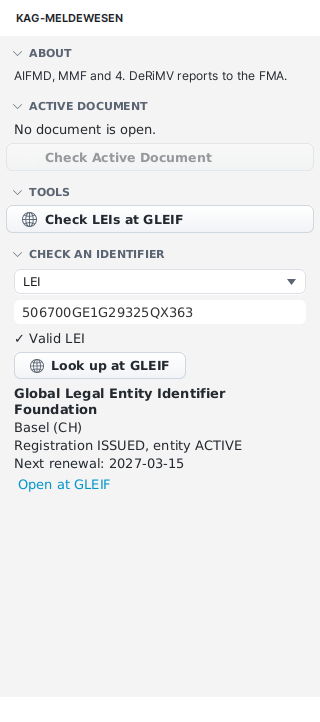
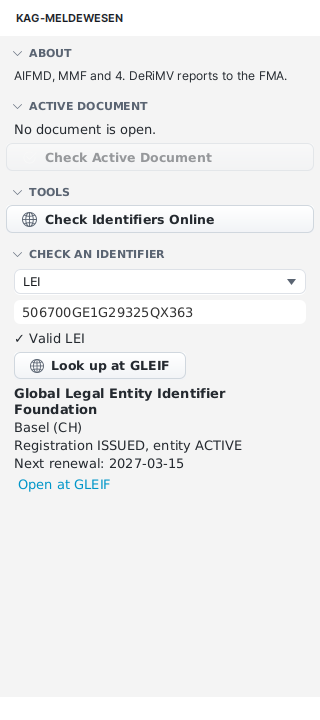
docs(isin): the lookup page, command line, administration, offline use, plugins
The previous commit only renamed docs/gleif.md; this one brings its content and
the references.

diff --git a/docs/identifier-lookup.md b/docs/identifier-lookup.md
@@ -1,81 +1,109 @@
-# LEI Lookup at GLEIF
+# Online Identifier Lookup (GLEIF, ESMA FIRDS, OpenFIGI)
 
-The check digits of an LEI only say that it is well-formed. Whether it is registered, to whom it belongs and
-whether its registration is still valid is known to the [Global Legal Entity Identifier Foundation](https://www.gleif.org)
-(GLEIF). FreeXmlToolkit asks GLEIF's public API (`api.gleif.org`, no account or key needed) in four places:
-the identifier checker of the industry extensions, a check of every LEI of a document, a hover in the editor and the
-command line.
+Check digits only say that an identifier is well-formed. Whether it exists and what it stands for is known online:
 
-!!! note "LEIs leave your computer"
-    A lookup sends the LEIs to GLEIF (and nothing else from the document). It happens when you click, or - only if
-    you turn it on - with every validation and when the mouse rests on an LEI. Administrators can switch all of it off
-    with `gleif.allowed=false` ([Administration](administration.md)).
+- **LEIs** at the [Global Legal Entity Identifier Foundation](https://www.gleif.org) (GLEIF, `api.gleif.org`): legal
+  name, address, registration and entity status;
+- **ISINs** at **ESMA FIRDS** (`registers.esma.europa.eu`, the EU reference data of financial instruments the
+  supervisors check against): name, CFI code, issuer LEI, currency, EU trading venues - and, for ISINs FIRDS does
+  not know (fund units not traded on an EU venue, instruments outside the EU), at **OpenFIGI** (`api.openfigi.com`,
+  Bloomberg): name, security type, ticker, FIGI.
 
-## Look up one LEI
+None of the services needs an account. FreeXmlToolkit asks them from the identifier checker of the extensions, for
+every identifier of a document, in a hover in the editor and on the command line.
+
+!!! note "Identifiers leave your computer"
+    A lookup sends the LEIs or ISINs to these services (and nothing else from the document). It happens when you click,
+    or - only if you turn it on - with every validation and when the mouse rests on an identifier. Administrators can
+    switch it off: `gleif.allowed=false`, `isin.allowed=false`, `isin.openfigi.allowed=false`
+    ([Administration](administration.md)).
+
+## Look up one identifier
 
 ![The identifier checker after a GLEIF lookup](img/gleif-identifier-checker.png)
+![The identifier checker after an ESMA FIRDS lookup](img/isin-identifier-checker.png)
 
-In the side panel of an extension that checks LEIs (KAG-Meldewesen, ESMA Reporting, FinDatEx, ISO 20022, FundsXML,
-PK-Meldewesen), choose
-**LEI** under **CHECK AN IDENTIFIER** and paste the LEI. When its check digits are right, **Look up at GLEIF** shows:
+In the side panel of an extension that checks identifiers (KAG-Meldewesen, ESMA Reporting, FinDatEx, ISO 20022,
+FundsXML, PK-Meldewesen), choose the kind under **CHECK AN IDENTIFIER** and paste the value. When its check digits are
+right:
 
-- the legal name and the city and country of the legal address;
-- the registration status (`ISSUED`, `LAPSED`, `RETIRED`, `ANNULLED`, `PENDING_TRANSFER` …) and the entity status
-  (`ACTIVE` / `INACTIVE`);
-- the next renewal date;
-- **Open at GLEIF** - the LEI's page in GLEIF's search.
+- **LEI → Look up at GLEIF** shows the legal name, the city and country of the legal address, the registration status
+  (`ISSUED`, `LAPSED`, `RETIRED`, `ANNULLED`, `PENDING_TRANSFER` …), the entity status (`ACTIVE` / `INACTIVE`), the next
+  renewal date and **Open at GLEIF**.
+- **ISIN → Look up online** shows the name, CFI code, currency and on how many EU trading venues it is traded now (or
+  that it is no longer traded in the EU), with the issuer's LEI as a link that looks it up at GLEIF. An ISIN FIRDS does
+  not know shows OpenFIGI's name, security type, ticker and FIGI.
 
-## Check every LEI of a document
+## Check every identifier of a document
 
-**Check LEIs at GLEIF** - in the TOOLS section of those panels, in the VALIDATE section of the FundsXML panel and the
-CHECK section of the PK-Meldewesen panel, and in **Tools → Check LEIs at GLEIF** for any document - finds every LEI in the text (XML, CSV, JSON …: 20 characters with valid check digits), asks GLEIF about all
-of them at once (200 per request) and puts a finding for each occurrence into the **Problems** panel, at its line:
+**Check Identifiers Online** - in the TOOLS section of the extension panels, in the VALIDATE section of the FundsXML
+panel, the CHECK section of the PK-Meldewesen panel, and in **Tools → Check Identifiers Online (LEI, ISIN)** for any
+document - finds every LEI (20 characters with valid check digits) and every ISIN (country prefix and valid check
+digit) in the text (XML, CSV, JSON …), asks the services about all of them at once and puts a finding for each
+occurrence into the **Problems** panel, at its line:
 
-| GLEIF says | Finding |
+| Answer | Finding |
 |---|---|
-| Not registered | Error |
-| `RETIRED`, `ANNULLED`, `DUPLICATE`, `MERGED`, `TRANSFERRED` | Error - the LEI must not be used any more |
-| `LAPSED` (registration not renewed) | Warning |
-| Entity `INACTIVE` | Warning |
-| `PENDING_…` | Warning (*info* on the command line) |
+| LEI not registered at GLEIF | Error |
+| LEI `RETIRED`, `ANNULLED`, `DUPLICATE`, `MERGED`, `TRANSFERRED` | Error - must not be used any more |
+| LEI `LAPSED` (registration not renewed), entity `INACTIVE` | Warning |
+| LEI `PENDING_…` | Warning (*info* on the command line) |
+| ISIN known neither to ESMA FIRDS nor to OpenFIGI | Warning |
+| ISIN no longer traded on any EU trading venue | Warning (*info* on the command line) |
+| ISIN not in FIRDS while OpenFIGI is switched off | Warning (*info* on the command line) |
 
-The findings have the source **GLEIF** and replace the GLEIF findings of an earlier check; schema and rule findings
-stay. Answers are kept for 24 hours (see below), so a second check asks GLEIF only about new LEIs.
+An ISIN only OpenFIGI knows is no finding. The findings have the source **GLEIF** or **ISIN** and replace the online
+findings of an earlier check; schema and rule findings stay, also when the document is validated again while its text
+is unchanged. When one service cannot be reached, the panel says so and the other part still counts.
 
 ## With every validation
 
-**Settings → Network & Security → GLEIF (LEI lookup) → Check LEIs at GLEIF on every validation (F8)** adds the same
-check to every validation of an XML document (F8, Validation panel, the extensions' **Check Active Document**). Off by
-default. When GLEIF cannot be reached, the validation shows one warning and goes on.
+**Settings → Network & Security** has a card for each kind: **Check LEIs at GLEIF on every validation (F8)** and
+**Check ISINs online on every validation (F8)** add the same checks to every validation of an XML document (F8,
+Validation panel, the extensions' **Check Active Document**). Both are off by default. When a service cannot be
+reached, the validation shows one warning and goes on.
 
 ## Hover
 
-When the mouse rests on an LEI in the text editor, a tooltip shows what GLEIF said about it - from the answers already
-known. **Look up LEIs at GLEIF when the mouse rests on them** (off by default) also asks GLEIF about LEIs it does not
-know yet.
+When the mouse rests on an LEI or ISIN in the text editor, a tooltip shows what the services said about it - from
+the answers already known. **Look up LEIs at GLEIF when the mouse rests on them** / **Look up ISINs when the mouse
+rests on them** (off by default) also ask about identifiers not known yet.
 
 ## Settings
 
 ![GLEIF settings](img/gleif-settings.png)
+![Instrument lookup settings](img/isin-settings.png)
 
 | Setting | Key | Default |
 |---|---|---|
 | Check LEIs at GLEIF on every validation (F8) | `gleif.onValidation` | off |
 | Look up LEIs at GLEIF when the mouse rests on them | `gleif.hover` | off |
-| Keep answers (hours) | `gleif.cacheHours` | 24 |
+| Keep answers (hours), GLEIF | `gleif.cacheHours` | 24 |
+| Check ISINs online on every validation (F8) | `isin.onValidation` | off |
+| Look up ISINs when the mouse rests on them | `isin.hover` | off |
+| Ask OpenFIGI about ISINs that ESMA FIRDS does not know | `isin.openfigi` | on |
+| OpenFIGI API key (stored encrypted) | `isin.openfigi.apiKey` | - |
+| Keep answers (hours), ISINs | `isin.cacheHours` | 24 |
 
-**Forget answers** empties the cache (`~/.freeXmlToolkit/gleif/cache.json`). Requests go through the proxy of
-*Settings → HTTP Proxy*. GLEIF allows 60 requests a minute; the application sends at most one a second.
+**Forget answers** empties the caches (`~/.freeXmlToolkit/gleif/cache.json`, `~/.freeXmlToolkit/isin/cache.json`).
+Requests go through the proxy of *Settings → HTTP Proxy*. Limits: GLEIF 60 requests a minute (the application sends
+at most one a second, 200 LEIs each); FIRDS one request a second with 100 ISINs; OpenFIGI without an API key 25
+requests a minute with 10 ISINs each, with a key (free at [openfigi.com](https://www.openfigi.com/api)) 100 ISINs per
+request and shorter pauses.
 
 ## Command line
 
 ```bash
-fxt-cli lei 506700GE1G29325QX363              # one or more LEIs
-fxt-cli lei --file report.xml -f json          # every LEI of a file, as JSON
-fxt-cli validate reports/ --gleif              # validation plus the GLEIF check
+fxt-cli lei 506700GE1G29325QX363                  # one or more LEIs
+fxt-cli lei --file report.xml -f json              # every LEI of a file, as JSON
+fxt-cli isin IE00B4L5Y983                          # one or more ISINs
+fxt-cli isin --file holdings.xml --no-openfigi     # every ISIN of a file, FIRDS only
+fxt-cli validate reports/ --gleif --isin           # validation plus the online checks
 ```
 
-`fxt-cli lei` exits with `1` when an LEI is invalid, unknown, lapsed, retired or annulled or its entity inactive, and
-with `3` when GLEIF cannot be reached. `validate --gleif` adds the findings to the report (source `GLEIF`, rule
-`GLEIF-LEI`); an unreachable GLEIF is an *info* there. The command line ignores the GUI setting "on every
-validation" - only `--gleif` turns the check on. See [Command Line](command-line.md#lei).
+`fxt-cli lei` exits with `1` when an LEI is invalid, unknown, lapsed, retired or annulled or its entity inactive;
+`fxt-cli isin` with `1` when an ISIN is invalid or known to neither service; both with `3` when a service cannot be
+reached. `validate --gleif` / `--isin` add the findings to the report (sources `GLEIF` / `ISIN`, rules `GLEIF-LEI` /
+`ISIN-LOOKUP`); an unreachable service is an *info* there. The OpenFIGI API key comes from `FXT_OPENFIGI_APIKEY` or
+the setting. The command line ignores the GUI settings "on every validation" - only `--gleif` / `--isin` turn the
+checks on. See [Command Line](command-line.md#lei).

diff --git a/CLAUDE.md b/CLAUDE.md
@@ -244,22 +244,32 @@ validate, bind), `ProjectSettingsDialog` (+ `ScenarioEditDialog`, `BindSchemaDia
 (`ValidationRunner.batchProject`), Welcome "Projects" cards. CLI: `scenario` (`--input`), `validate --project`
 (also Schematron / JSON Schema). Docs: `docs/projects.md`.
 
-## GLEIF (LEI lookup)
+## Online identifier lookup (GLEIF, ESMA FIRDS, OpenFIGI)
 
-`service/finance/gleif/`: `GleifClient` (`api.gleif.org/api/v1/lei-records?filter[lei]=…`, 200 per request, ≤ 1
-request/s, `Fetcher` = `ConnectionService.fetchBinary`, only LEIs with valid check digits), `LeiRecord` (+ `problem()`:
-unknown/RETIRED/ANNULLED… = error, LAPSED/INACTIVE = warning, PENDING = info), `LeiCache` (memory +
-`~/.freeXmlToolkit/gleif/cache.json`, `gleif.cacheHours`), `LeiScanner` (LEIs in any text, `at(text, offset)`),
-`GleifCheck` (findings per occurrence, never throws), `Gleif` (shared cache + `setCache` test hook, settings
-`gleif.onValidation` / `gleif.hover`, policy `gleif.allowed`, `setValidationOverride` for the CLI). Users:
-`ValidationRunner.gleifProblems` (stage at the end of `runWithReport` when `Gleif.onValidation()`), `plugins/IdentifierChecker`
-(identifier checker control with Look up at GLEIF, in `IndustryPanel`, `FundsXmlPanel`, `PkMeldewesenPanel`; `IndustryPanel` tool "Check LEIs at GLEIF" for panels offering `IdentifierKind.LEI`),
-`GleifDocumentCheck` (`runOnActive(host, done)` → `Outcome`, merge into the Problems panel via
-`EditorHost.publishGleifCheck`; a later validation of the same text keeps the GLEIF findings; used by Tools menu
-`menu-tools-gleif`, `IndustryPanel`, `FundsXmlPanel` `fundsxml-gleif`, `PkMeldewesenPanel` `pk-gleif`), `LeiHover`, Settings card
-`GleifSettings`, CLI `lei` (`LeiCommand`) and `validate --gleif` (the CLI ignores `gleif.onValidation`). LEIs leave the
-computer only on a click or with those settings on. Tests use the saved answer `src/test/resources/gleif/lei-records.json`.
-Docs: `docs/gleif.md`.
+Shared cache `service/finance/lookup/LookupCache<R>` (memory + JSON file, codec, `Fetcher`).
+LEIs, `service/finance/gleif/`: `GleifClient` (`api.gleif.org/api/v1/lei-records?filter[lei]=…`, 200 per request, ≤ 1
+request/s, `ConnectionService.fetchBinary`, only valid check digits), `LeiRecord` (+ `problem()`: unknown/RETIRED/
+ANNULLED… = error, LAPSED/INACTIVE = warning, PENDING = info), `LeiCache` (`~/.freeXmlToolkit/gleif/cache.json`),
+`LeiScanner`, `GleifCheck`, `Gleif` (shared cache + `setCache`, `gleif.onValidation` / `gleif.hover` / `gleif.cacheHours`,
+policy `gleif.allowed`, `setValidationOverride`).
+ISINs, `service/finance/isin/`: `IsinLookup` (ESMA FIRDS Solr `registers.esma.europa.eu/solr/esma_registers_firds/select`,
+100 ISINs per request grouped by isin + `facet.pivot=isin,status` (TERM/CANC = ended venues); the rest at OpenFIGI
+`POST api.openfigi.com/v3/mapping` - 10 jobs/request and 25 requests/min without key, 100 with `X-OPENFIGI-APIKEY` via
+`ConnectionService.postJson(…, headers)` (32 MB answers)), `IsinRecord` (+ `problem()`: unknown to both = warning, no EU
+venue / not in FIRDS without OpenFIGI = info), `IsinScanner` (country prefix + check digit), `Isin` (shared `Isin.Cache`
+keyed per OpenFIGI mode (`#firds`), `~/.freeXmlToolkit/isin/cache.json`, settings `isin.onValidation` / `isin.hover` /
+`isin.openfigi` (default on) / `isin.openfigi.apiKey` (encrypted, env `FXT_OPENFIGI_APIKEY`) / `isin.cacheHours`, policy
+`isin.allowed`, `isin.openfigi.allowed`, CLI overrides).
+Combined: `service/finance/IdentifierCheck` (LEIs + ISINs, findings with source `GLEIF` / `ISIN`, `Failure` per source,
+never throws). Users: `ValidationRunner.identifierProblems` / `toProblems` (stage at the end of `runWithReport`),
+`plugins/IdentifierChecker` (control in `IndustryPanel`, `FundsXmlPanel`, `PkMeldewesenPanel`: Look up at GLEIF / Look up
+online, issuer LEI link), `IdentifierDocumentCheck` (`runOnActive(host, done)` → `Outcome`; merge via
+`EditorHost.publishIdentifierCheck`; a later validation of the same text keeps the online findings per source unless it
+checked that source itself; "Check Identifiers Online": Tools `menu-tools-identifiers-online`, `industry-identifiers-online`,
+`fundsxml-identifiers-online`, `pk-identifiers-online`), `IdentifierHover`, Settings cards `GleifSettings` / `IsinSettings`,
+CLI `lei`, `isin` (`--no-openfigi`), `validate --gleif --isin` (the CLI ignores the "on validation" settings). Values leave
+the computer only on a click or with those settings on. Tests: `OnlineFakes` (saved answers `gleif/lei-records.json`,
+`isin/firds-select.json`, `isin/openfigi-mapping.json`). Docs: `docs/identifier-lookup.md`.
 
 ## Plugins
 

diff --git a/docs/command-line.md b/docs/command-line.md
@@ -62,7 +62,9 @@ fxt-cli validate [options] FILE|FOLDER...
 | `-r`, `--report FILE` | Write the report to a file; the text summary still goes to standard output |
 | `-p`, `--project FXTPROJ` | Use a [project's](projects.md) bindings (schema, Schematron, JSON Schema) and catalogs |
 | `--fail-on-warning` | Warnings make a file invalid too |
-| `--gleif` | Also check every LEI of the files at GLEIF ([LEI Lookup at GLEIF](gleif.md)); sends the LEIs to `api.gleif.org` |
+| `--gleif` | Also check every LEI of the files at GLEIF ([Online Identifier Lookup](identifier-lookup.md)); sends the LEIs to `api.gleif.org` |
+| `--isin` | Also check every ISIN of the files at ESMA FIRDS, OpenFIGI for the ISINs FIRDS does not know; sends the ISINs to these services |
+| `--no-openfigi` | With `--isin`: ask only ESMA FIRDS |
 | `--xsd-version VERSION` | `auto` (default: XSD 1.1 when the schema uses it), `1.0` or `1.1` |
 | `--xml-version VERSION` | `auto` (default: as declared), `1.0` (a document declared as XML 1.1 is an error) or `1.1` |
 | `--schematron-binding BINDING` | Query binding of a Schematron without `@queryBinding`: `xslt`, `xslt2` (default) or `xslt3`; with `xslt` / `xslt2` every context and test must be XPath 1.0 / 2.0 |
@@ -590,7 +592,7 @@ Exit code `0` when everything selected was decrypted, `1` when no key fits or da
 ## lei
 
 Looks LEIs up at GLEIF: legal name, country, registration and entity status, next renewal. See
-[LEI Lookup at GLEIF](gleif.md).
+[Online Identifier Lookup](identifier-lookup.md).
 
 ```bash
 fxt-cli lei [LEI...] [--file FILE]... [-f text|json]
@@ -605,6 +607,26 @@ fxt-cli lei [LEI...] [--file FILE]... [-f text|json]
 Exit code `0` when every LEI is issued and its entity active, `1` when one is invalid, unknown, lapsed, retired or
 annulled or its entity inactive, `3` when GLEIF cannot be reached or the administrator turned lookups off
 (`gleif.allowed=false`).
+
+## isin
+
+Looks ISINs up at ESMA FIRDS (name, CFI code, issuer LEI, currency, EU trading venues), the ISINs FIRDS does not know
+at OpenFIGI (name, security type, ticker, FIGI). See [Online Identifier Lookup](identifier-lookup.md).
+
+```bash
+fxt-cli isin [ISIN...] [--file FILE]... [--no-openfigi] [-f text|json]
+```
+
+| Option | Meaning |
+|---|---|
+| `ISIN...` | ISINs to look up |
+| `--file FILE` | Look up every ISIN found in the file (repeatable) |
+| `--no-openfigi` | Ask only ESMA FIRDS |
+| `-f`, `--format FORMAT` | `text` (default) or `json` |
+
+An OpenFIGI API key in `FXT_OPENFIGI_APIKEY` raises OpenFIGI's limits. Exit code `0` when every ISIN is known, `1`
+when one is invalid or known to neither service, `3` when a service cannot be reached or the administrator turned
+lookups off (`isin.allowed=false`).
 
 ## mcp
 

diff --git a/docs/administration.md b/docs/administration.md
@@ -79,9 +79,13 @@ Any key of the user's settings file works. These are the ones most often managed
 | `xslt.external.allowed` | `false` | **Policy only.** Only the bundled Saxon HE transforms; [external XSLT processors](transform-panel.md#external-xslt-processors) are hidden and refused (panels, scenarios, `fxt-cli transform` / `fop`) |
 | `xslt.processors` | JSON list | The external XSLT processors (as written by *Settings → XSLT Processors*); in `defaults.properties` a starting list, in `policy.properties` a fixed one |
 | `xslt.processor.default` | `builtin` or an id | The default XSLT processor (scenarios, PDF/FOP panel, command line) |
-| `gleif.allowed` | `false` | No [LEI lookups at GLEIF](gleif.md): no panel buttons, menu item, hover or validation stage; `fxt-cli lei` and `validate --gleif` refuse |
+| `gleif.allowed` | `false` | No [LEI lookups at GLEIF](identifier-lookup.md): no LEI lookup buttons, hover or validation stage; `fxt-cli lei` and `validate --gleif` refuse |
 | `gleif.onValidation`, `gleif.hover` | `true` / `false` | Check LEIs at GLEIF with every validation / when hovering (Settings → GLEIF; default off) |
 | `gleif.cacheHours` | `1`–`720` | How long GLEIF's answers are used (default 24) |
+| `isin.allowed` | `false` | No [ISIN lookups](identifier-lookup.md) at ESMA FIRDS or OpenFIGI: no ISIN lookup buttons, hover or validation stage; `fxt-cli isin` and `validate --isin` refuse |
+| `isin.openfigi.allowed` | `false` | ISINs are looked up at ESMA FIRDS only, never at OpenFIGI (Bloomberg) |
+| `isin.onValidation`, `isin.hover`, `isin.openfigi` | `true` / `false` | Check ISINs online with every validation / when hovering (default off); ask OpenFIGI about ISINs FIRDS does not know (default on) |
+| `isin.cacheHours` | `1`–`720` | How long ISIN answers are used (default 24); the OpenFIGI API key `isin.openfigi.apiKey` is read from the user's settings only |
 | `xmlenc.allowed` | `false` | **Policy only.** No [XML encryption](xml-encryption.md) or decryption (page, editor menu and `fxt-cli`) |
 | `xmlenc.legacyAlgorithms.allowed` | `false` | **Policy only.** Block the legacy XML encryption algorithms (RSA-1_5, TripleDES, CBC modes, finite-field DH) for encryption and decryption |
 | `ai.allowed` | `false` | **Policy only.** Every AI feature off: the [AI assistant](ai-assistant.md) (no Settings group, no menu items) and the [MCP server](mcp-server.md) (`fxt-cli mcp` refuses to start) |

diff --git a/docs/offline-operation.md b/docs/offline-operation.md
@@ -27,7 +27,8 @@ back to its cache; the application is never blocked.
 | XProc `p:http-request` and remote `href`s | The URL in the pipeline | When the pipeline runs, only with **Run XProc pipelines without restrictions** on | – | Blocked by default | Pipeline error |
 | HTML preview | Remote images, scripts and styles the page refers to | When the preview is shown | – | – | Missing resources |
 | Open from URL, proxy test | The URL you enter | On your action | – | – | Error message |
-| LEI lookup | `api.gleif.org` (only the LEIs) | When you click **Look up at GLEIF** / **Check LEIs at GLEIF**, run `fxt-cli lei` or `validate --gleif`; with the settings on also on every validation and on hover | **Off** (automatic lookups) | Settings → GLEIF; `gleif.allowed=false` (policy) | Error in the panel, a warning in the validation |
+| LEI lookup | `api.gleif.org` (only the LEIs) | When you click **Look up at GLEIF** / **Check Identifiers Online**, run `fxt-cli lei` or `validate --gleif`; with the settings on also on every validation and on hover | **Off** (automatic lookups) | Settings → GLEIF; `gleif.allowed=false` (policy) | Error in the panel, a warning in the validation |
+| ISIN lookup | `registers.esma.europa.eu` (ESMA FIRDS), `api.openfigi.com` (OpenFIGI, for ISINs FIRDS does not know) - only the ISINs | When you click **Look up online** / **Check Identifiers Online**, run `fxt-cli isin` or `validate --isin`; with the settings on also on every validation and on hover | **Off** (automatic lookups); OpenFIGI fallback on | Settings → Instrument lookup; `isin.allowed=false`, `isin.openfigi.allowed=false` (policy) | Error in the panel, a warning in the validation |
 | AI assistant | The base URL of the provider you configured (e.g. `localhost:11434` for Ollama) | Only when you start an AI action, test a provider or load its models | **Off** | Settings → AI; `ai.allowed=false` (policy), `ai.remote.allowed=false` for local providers only | Error in the AI panel |
 
 Not on this list because they never connect: XSLT, XQuery and XPath (also in the Query Console,

diff --git a/docs/whats-new.md b/docs/whats-new.md
@@ -6,14 +6,15 @@ running is shown under **Help → About FreeXmlToolkit**.
 
 ## Unreleased
 
-**LEI lookup at GLEIF**
+**Online identifier lookup (GLEIF, ESMA FIRDS, OpenFIGI)**
 
-- **Is the LEI registered?** The identifier checker of the industry extensions looks an LEI up at GLEIF (name, address,
-  registration and entity status, next renewal); **Check LEIs at GLEIF** (the industry, FundsXML and PK-Meldewesen
-  panels, Tools menu) checks every LEI of
-  a document and reports unknown, lapsed, retired or annulled LEIs in the Problems panel. Optionally with every
-  validation and as a hover in the editor (Settings → GLEIF, both off by default); on the command line
-  `fxt-cli lei` and `fxt-cli validate --gleif`. See [LEI Lookup at GLEIF](gleif.md).
+- **Is the LEI registered, does the ISIN exist?** The identifier checker of the industry, FundsXML and PK-Meldewesen
+  panels looks an LEI up at GLEIF (name, address, registration and entity status, next renewal) and an ISIN at ESMA
+  FIRDS (name, CFI code, issuer LEI, EU trading) or, when FIRDS does not know it, at OpenFIGI. **Check Identifiers
+  Online** (panels, Tools menu) checks every LEI and ISIN of a document and reports unknown, lapsed, retired or annulled
+  LEIs and unknown or no longer traded ISINs in the Problems panel. Optionally with every validation and as a hover in
+  the editor (Settings → Network & Security, off by default); on the command line `fxt-cli lei`, `fxt-cli isin` and
+  `fxt-cli validate --gleif --isin`. See [Online Identifier Lookup](identifier-lookup.md).
 
 **External XSLT processors**
 

diff --git a/docs/fundsxml-extensions.md b/docs/fundsxml-extensions.md
@@ -208,8 +208,8 @@ sections:
 | Section | What you can do |
 |---------|-----------------|
 | **MANAGEMENT** | Pick the **Active version** and force a manual **Download / Update Content**. A **progress bar with stage text** at the bottom of the panel tracks running downloads - including automatic background downloads. |
-| **VALIDATE** | **Validate active document** - check the open XML against the active FundsXML schema. **Run Data Quality Checks**, **Check LEIs at GLEIF** (is every LEI of the document registered and valid? Findings in the Problems panel - see [LEI Lookup at GLEIF](gleif.md)) and **Add Grid Formulas & Filters**. |
-| **CHECK AN IDENTIFIER** | Checks a pasted ISIN, LEI, BIC or IBAN; an LEI can be looked up at GLEIF ([LEI Lookup at GLEIF](gleif.md)). |
+| **VALIDATE** | **Validate active document** - check the open XML against the active FundsXML schema. **Run Data Quality Checks**, **Check Identifiers Online** (are the LEIs registered and valid, do the ISINs exist and are they still traded? Findings in the Problems panel - see [Online Identifier Lookup](identifier-lookup.md)) and **Add Grid Formulas & Filters**. |
+| **CHECK AN IDENTIFIER** | Checks a pasted ISIN, LEI, BIC or IBAN; LEIs and ISINs can be looked up online ([Online Identifier Lookup](identifier-lookup.md)). |
 | **DOCS & RESOURCES** | Open the schema and browse the downloaded content (see below). |
 
 The DOCS & RESOURCES buttons:

diff --git a/docs/plugin-pk-meldewesen.md b/docs/plugin-pk-meldewesen.md
@@ -35,9 +35,10 @@ Administrators can remove it completely with `plugin.pk-meldewesen.enabled=false
       the taxonomy the report declares; **Open Example Report** opens a quarterly report of a
       fictitious pension fund with a few rule violations to try everything out;
     - **CHECK** - **Validate Active Report** validates it against its schema and the FMA rules
-      (as **F8** does); **Rule Report (HTML)** opens the rule report in the preview; **Check LEIs at GLEIF**
-      checks the report's LEIs at GLEIF (findings in the Problems panel, see [LEI Lookup at GLEIF](gleif.md));
-    - **CHECK AN IDENTIFIER** - checks a pasted LEI or ISIN; an LEI can be looked up at GLEIF;
+      (as **F8** does); **Rule Report (HTML)** opens the rule report in the preview; **Check Identifiers Online**
+      checks the report's LEIs at GLEIF and ISINs at ESMA FIRDS / OpenFIGI (findings in the Problems panel, see
+      [Online Identifier Lookup](identifier-lookup.md));
+    - **CHECK AN IDENTIFIER** - checks a pasted LEI or ISIN and looks it up online;
     - **GRID** - grid formulas and filters (see below);
     - **SUBMISSION** - **Prepare Submission (ZIP)…** (see below);
     - **CHECK OPTIONS** - the additional plausibility checks and the limits of the rules (see below);

diff --git a/docs/industry-plugins.md b/docs/industry-plugins.md
@@ -40,8 +40,8 @@ FinDatEx template, an XBRL instance, an ESMA or a KAG report), a bar above the e
     - **OPTIONS** (KAG-Meldewesen) — the extension's settings;
     - **CHECK AN IDENTIFIER** — checks a pasted IBAN (ISO 13616: country length and check digits),
       BIC (ISO 9362), LEI (ISO 17442), ISIN (ISO 6166) or Austrian VAT id (UID), depending on the extension; an LEI
-      can be looked up at GLEIF, and **Check LEIs at GLEIF** checks every LEI of the document there
-      ([LEI Lookup at GLEIF](gleif.md));
+      and an ISIN can be looked up online, and **Check Identifiers Online** checks every LEI (GLEIF) and ISIN (ESMA FIRDS,
+      OpenFIGI) of the document ([Online Identifier Lookup](identifier-lookup.md));
 - **checks** that run with every validation (Validation panel, **F8**, `fxt-cli validate`) and appear
   with the extension's name as source — ISO 20022 and ebInterface; FinDatEx and XBRL files are checked
   from their side panel;

diff --git a/docs/plugin-kag-meldewesen.md b/docs/plugin-kag-meldewesen.md
@@ -107,8 +107,8 @@ The content rules of the same table:
 
 Of the table's 254 rule items, 211 run in the application; the other 43 need data only ESMA has:
 GLEIF, ESMA's register of authorised MMFs and earlier reports of the same MMF. Whether the reported LEIs are
-registered and still valid can be checked at GLEIF from the panel (**Check LEIs at GLEIF**, see
-[LEI Lookup at GLEIF](gleif.md)). **New Money
+registered and still valid, and whether the ISINs exist and are still traded, can be checked online from the panel
+(**Check Identifiers Online**, see [Online Identifier Lookup](identifier-lookup.md)). **New Money
 Market Fund Report (Example)** opens a fictitious report.
 
 ## Check report
